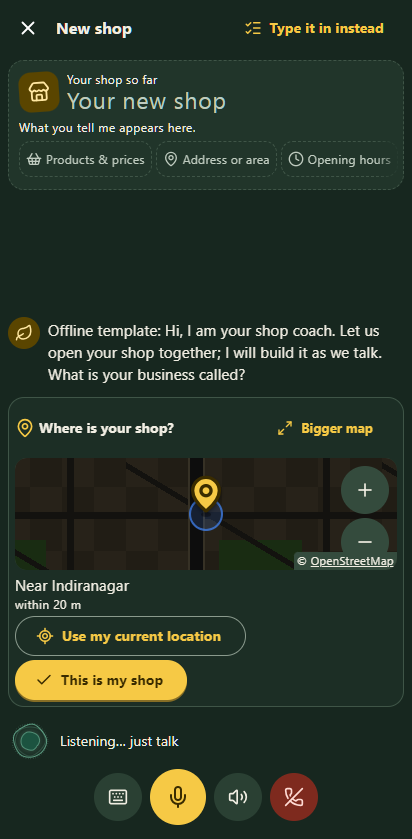
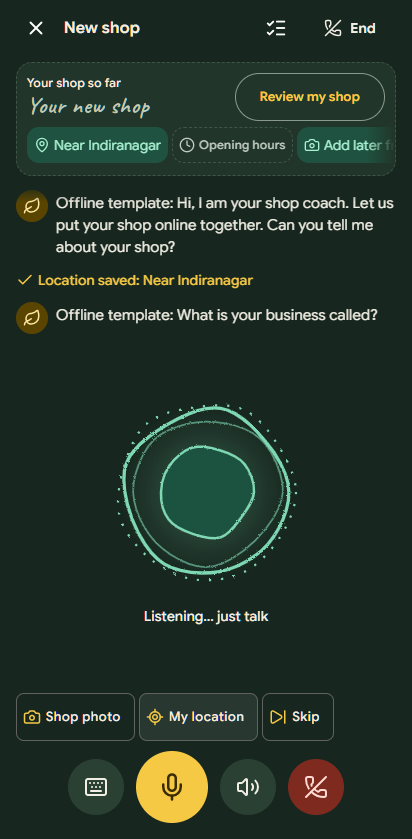
New shop: My location saves the phone's location at once
Owner decision (17 Oct): in the new-shop conversation, My location and Use my
current location take the device location with only the browser's prompt, no
confirm step in the app. A refused or failed measurement keeps the map card
open for a pin placed by hand (still confirmed). The typed journey and every
other screen keep their location dialog.

diff --git a/tests/new-shop-inchat.spec.ts b/tests/new-shop-inchat.spec.ts
@@ -66,18 +66,21 @@ for (const scheme of ['light', 'dark'] as const) {
     await camera.getByRole('button', { name: 'Close camera' }).click()
     await expect(camera).toHaveCount(0)
 
+    // "My location" saves the phone's location at once (owner decision, 17 Oct): the browser's
+    // own prompt only, no confirm step in the app.
+    let sent: { source?: string; accuracy_m?: number } | undefined
+    page.on('request', (request) => {
+      if (request.url().endsWith('/api/v1/proposals') && request.method() === 'POST')
+        sent = request.postDataJSON().owner_location
+    })
     await page.getByRole('button', { name: 'My location' }).click()
     const map = page.getByTestId('map-card')
+    await expect(map).toHaveAttribute('data-state', 'done')
     await expect(map).toContainText('Near Indiranagar')
+    expect(sent).toMatchObject({ source: 'device', accuracy_m: 20 })
+    await expect(page.getByRole('button', { name: 'This is my shop' })).toHaveCount(0)
     await audit(page)
     await page.screenshot({ path: name('map-1-small', scheme, isMobile) })
-    await map.getByRole('button', { name: 'Bigger map' }).click()
-    const big = page.getByRole('dialog', { name: 'Where is your shop?' })
-    await expect(big).toContainText('within 20 m')
-    await audit(page)
-    await page.screenshot({ path: name('map-2-big', scheme, isMobile) })
-    await big.getByRole('button', { name: 'Close the big map' }).click()
-    await expect(big).toBeHidden()
 
     await page.getByRole('button', { name: 'Type it in instead' }).click()
     await expect(page.getByTestId('guided-details')).toHaveAttribute('data-step', 'name')
@@ -114,18 +117,32 @@ test('camera blocked: the alert explains, Try again and Upload instead work', as
   await expect(camera).toHaveCount(0)
 })
 
+// Location refused: the card stays open so the owner can place the pin by hand (and confirm it).
+async function refuseLocation(page: Page) {
+  await page.addInitScript(() => {
+    navigator.geolocation.getCurrentPosition = (_, fail) =>
+      fail?.({ code: 1, message: 'denied' } as GeolocationPositionError)
+  })
+}
+
 test('a pin moved by hand is saved as the owner’s pin, not as GPS accuracy', async ({
   page,
   context,
 }) => {
   await localOnly(page)
   await inChatFixtures(page)
-  await context.grantPermissions(['geolocation', 'microphone'])
-  await context.setGeolocation({ latitude: 12.9718234, longitude: 77.6412345, accuracy: 20 })
+  await refuseLocation(page)
+  await context.grantPermissions(['microphone'])
   await open(page, 'light')
   await page.getByRole('button', { name: 'My location' }).click()
   const map = page.getByTestId('map-card')
-  await expect(map).toContainText('within 20 m')
+  await expect(map).toHaveAttribute('data-state', 'open')
+  await map.getByRole('button', { name: 'Bigger map' }).click()
+  const big = page.getByRole('dialog', { name: 'Where is your shop?' })
+  await expect(big.getByTestId('pin-map')).toBeVisible()
+  await audit(page)
+  await big.getByRole('button', { name: 'Close the big map' }).click()
+  await expect(big).toBeHidden()
   const surface = map.getByTestId('pin-map')
   const before = Number(await surface.getAttribute('data-lng'))
   // Drag the map by touch-free pointer moves, then nudge with the keyboard; both send the pin
@@ -157,16 +174,14 @@ test('map pictures offline: the chalk grid stays and the pin still works', async
   await localOnly(page)
   await inChatFixtures(page)
   await page.route('https://tile.openstreetmap.org/**', (route) => route.abort())
-  await context.grantPermissions(['geolocation', 'microphone'])
-  await context.setGeolocation({ latitude: 12.9718234, longitude: 77.6412345, accuracy: 20 })
+  await refuseLocation(page)
+  await context.grantPermissions(['microphone'])
   await open(page, 'light')
   await page.getByRole('button', { name: 'My location' }).click()
   const map = page.getByTestId('map-card')
   await expect(map).toContainText('The map pictures are not available right now')
-  await expect(map).toContainText('Near Indiranagar')
   await map.getByRole('button', { name: 'This is my shop' }).click()
   await expect(map).toHaveAttribute('data-state', 'done')
-  await expect(map).toContainText('Near Indiranagar')
 })
 
 for (const scheme of ['light', 'dark'] as const) {
@@ -177,8 +192,8 @@ for (const scheme of ['light', 'dark'] as const) {
     await page.setViewportSize({ width: 360, height: 800 })
     await localOnly(page)
     await inChatFixtures(page)
-    await context.grantPermissions(['geolocation', 'microphone'])
-    await context.setGeolocation({ latitude: 12.9718234, longitude: 77.6412345, accuracy: 20 })
+    await refuseLocation(page)
+    await context.grantPermissions(['microphone'])
     await open(page, scheme)
     await page.getByRole('button', { name: 'My location' }).click()
     const confirmBtn = page.getByRole('button', { name: 'This is my shop' })

diff --git a/src/features/v1/MapCard.tsx b/src/features/v1/MapCard.tsx
@@ -65,12 +65,13 @@ function useAddress(point: Point | null) {
 /**
  * The location as a card in the conversation: a small map with the pin, the address and the
  * accuracy, "Use my current location", and a big full-screen map for careful placing. Nothing
- * is saved until "This is my shop".
+ * is saved until "This is my shop", except with `direct`.
  */
 export function MapCard({
   initial,
   done,
   autoLocate = false,
+  direct = false,
   onConfirm,
   onActive,
 }: {
@@ -79,6 +80,11 @@ export function MapCard({
   done: string | null
   /** Measure at once (the owner tapped "My location", so the request follows their tap). */
   autoLocate?: boolean
+  /**
+   * The new-shop flow (owner decision, 17 Oct): the phone's location is saved as soon as it is
+   * measured, with only the browser's own prompt. A pin placed by hand still needs the confirm.
+   */
+  direct?: boolean
   onConfirm: (choice: PinChoice, address: string | null) => Promise<void>
   /** The owner is placing the pin (the coach waits instead of nudging). */
   onActive?: () => void
@@ -94,6 +100,7 @@ export function MapCard({
   const location = useMeasureLocation(async (point) => {
     setFix({ lat: point.lat, lng: point.lng, m: point.accuracy_m })
     setPin({ lat: point.lat, lng: point.lng })
+    if (direct) await save({ ...point, source: 'device' }, null)
   })
   const asked = useRef(false)
   async function locate() {
@@ -116,23 +123,26 @@ export function MapCard({
 
   const address = useAddress(done ? null : pin)
   const moved = !fix || !pin || metres(fix, pin) > Math.max(5, fix.m / 2)
-  async function confirm() {
-    if (!pin || saving) return
+  async function save(choice: PinChoice, label: string | null) {
     setSaving(true)
     setError('')
     try {
-      await onConfirm(
-        moved
-          ? { ...pin, accuracy_m: 0, source: 'pin' }
-          : { lat: fix!.lat, lng: fix!.lng, accuracy_m: fix!.m, source: 'device' },
-        address,
-      )
+      await onConfirm(choice, label)
       setBig(false)
     } catch {
       setError(t.actionFailed)
     } finally {
       setSaving(false)
     }
+  }
+  function confirm() {
+    if (!pin || saving) return
+    void save(
+      moved
+        ? { ...pin, accuracy_m: 0, source: 'pin' }
+        : { lat: fix!.lat, lng: fix!.lng, accuracy_m: fix!.m, source: 'device' },
+      address,
+    )
   }
 
   if (done)
@@ -160,7 +170,7 @@ export function MapCard({
       saving={saving}
       error={error}
       onLocate={() => void locate()}
-      onConfirm={() => void confirm()}
+      onConfirm={confirm}
     />
   )
   return (

diff --git a/tests/stories/s10-new-shop.spec.ts b/tests/stories/s10-new-shop.spec.ts
@@ -90,24 +90,15 @@ test('S10 · owner opens a new shop by talking to the coach', async ({ page, con
     await shot(page, 10, '3-action')
   })
 
-  await test.step('4 · the map in the chat: small view, big view, confirm the pin; live', async () => {
+  await test.step('4 · the map in the chat: the phone’s location is saved at once; live', async () => {
+    // Owner decision (17 Oct): only the browser's prompt, no confirm step in the app.
     await page.getByRole('button', { name: 'Use my current location' }).click()
     const card = page.getByTestId('map-card').last()
+    await expect(card).toHaveAttribute('data-state', 'done')
     await expect(card).toContainText('Near Indiranagar')
-    await expect(card).toContainText('within 20 m')
-    await expect(card.getByTestId('pin-map')).toBeVisible()
     await card.scrollIntoViewIfNeeded()
     await evidence(page, 'map-1-small')
-    await card.getByRole('button', { name: 'Bigger map' }).click()
-    const big = page.getByRole('dialog', { name: 'Where is your shop?' })
-    await expect(big.getByTestId('pin-map')).toBeVisible()
-    await expect(big).toContainText('within 20 m')
-    await page.waitForTimeout(400)
-    await evidence(page, 'map-2-big')
-    await axe(page, 1)
-    await big.getByRole('button', { name: 'This is my shop' }).click()
-    await expect(big).toBeHidden()
-    await expect(page.getByTestId('map-card').last()).toHaveAttribute('data-state', 'done')
+    await axe(page)
     // Name, kind and the pin: the shop is live by itself, and the coach asks what is left:
     // first the tea stall's own follow-up (#112), never a generic one.
     await expect(page.getByTestId('shop-live')).toBeVisible()

diff --git a/tests/new-shop.spec.ts b/tests/new-shop.spec.ts
@@ -126,14 +126,12 @@ test('a measured location pins the shop; with name and kind it goes live with th
   await begin(page)
   await say(page, 'name: Courtyard Chai; category: Tea stall')
   await expect(page.getByTestId('shop-so-far')).toContainText('Courtyard Chai')
-  // "Are you at the shop right now?" opens the map at the measured point; nothing moves until
-  // the owner confirms it.
+  // "Are you at the shop right now?" opens the map; the measured point is saved at once (owner
+  // decision, 17 Oct: only the browser's prompt, no confirm step).
   const map = page.getByTestId('map-card')
   await map.getByRole('button', { name: 'Use my current location' }).click()
+  await expect(map).toHaveAttribute('data-state', 'done')
   await expect(map).toContainText('Near Indiranagar')
-  await expect(map).toContainText('within 20 m')
-  expect(await shops(page)).toEqual([])
-  await map.getByRole('button', { name: 'This is my shop' }).click()
   await expect(page.getByTestId('shop-so-far')).toContainText('Near Indiranagar')
   await expect(page.getByTestId('shop-live')).toBeVisible()
   await expect

diff --git a/src/features/v1/NewShopFlow.tsx b/src/features/v1/NewShopFlow.tsx
@@ -1429,6 +1429,7 @@ function Journey({ setGalleryPhoto }: { setGalleryPhoto: (photo: GalleryPhoto | 
                       }
                       done={line.done}
                       autoLocate={line.locate}
+                      direct
                       onConfirm={(point) => savePin(line.id, point)}
                       onActive={() => openCards.current.add(line.id)}
                     />
